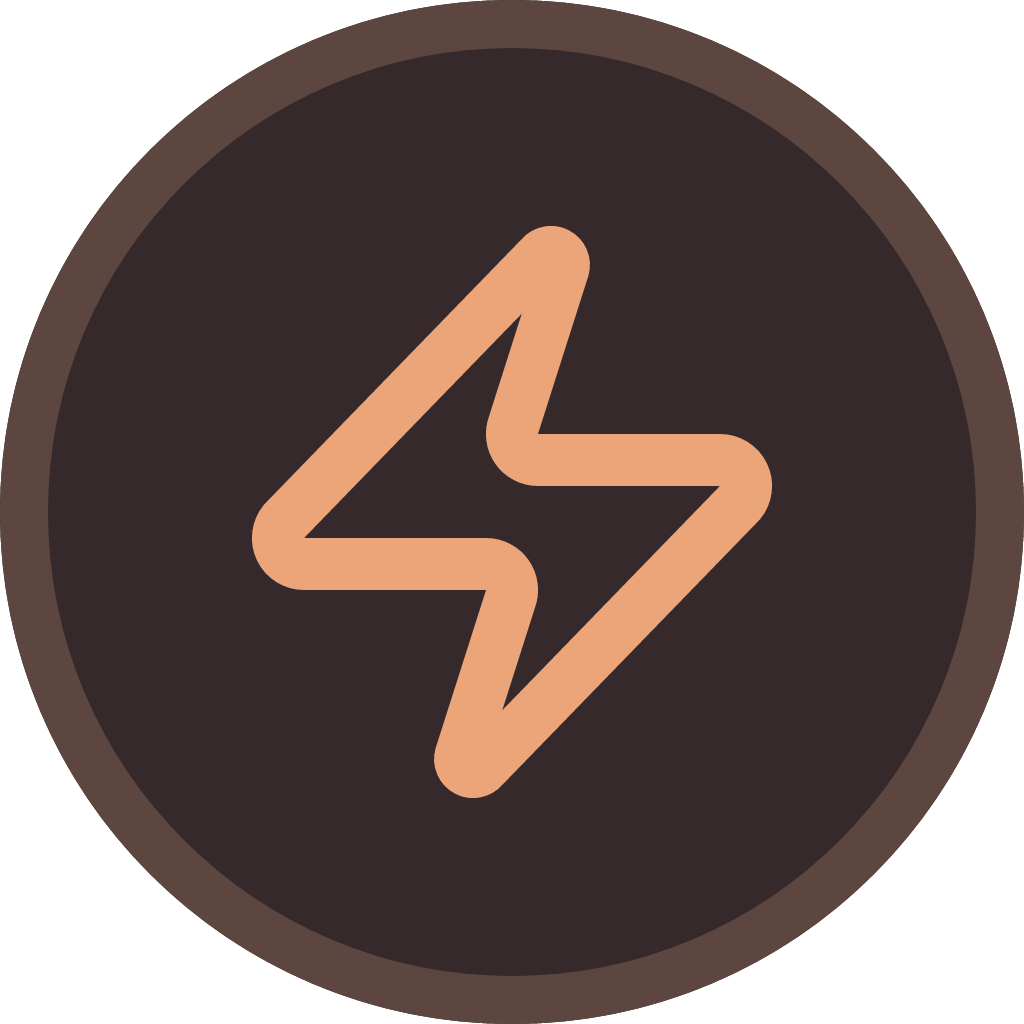
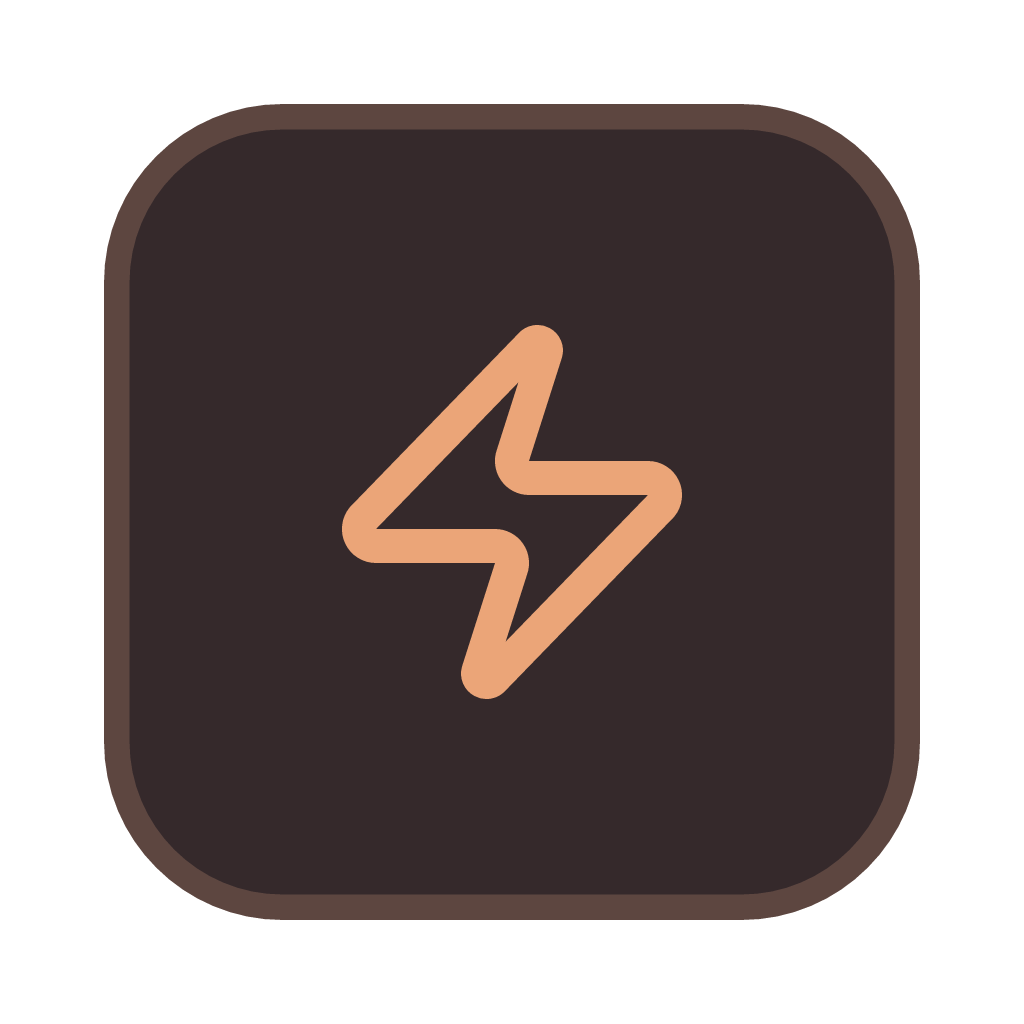
fix(presence): the tiles at the app's own proportions
The discs had a heavy edge and a glyph two thirds their size. The tiles
are now the app's .tile exactly, in its CSS pixels scaled up: 32 px,
7 px corners, a 1 px edge, a 16 px glyph in a 2-unit line, the rounded
square kept inside Discord's circle crop on a transparent surround.

diff --git a/crates/svc-presence/art/README.md b/crates/svc-presence/art/README.md
@@ -19,8 +19,9 @@ shows none rather than a generic icon.
 
 The tiles use the app's `.tile` mixes on the app.css tokens: the hue at 12%
 on `--bg-raised`, its edge at 26% on `--border`, the lucide glyph at 85% on
-`--text`. Discord shows the small image as a circle, so each tile is a
-disc. `sheet.png` shows them all.
+`--text`, at the tile's own proportions (32 px, 7 px corners, a 1 px edge,
+a 16 px glyph). Discord shows the small image as a circle, so the tile
+sits inside it on a transparent surround. `sheet.png` shows them all.
 
 Rebuild from the repo root, keeping `make.mjs`'s list in step with the two
 app files and with `compose::asset`:
